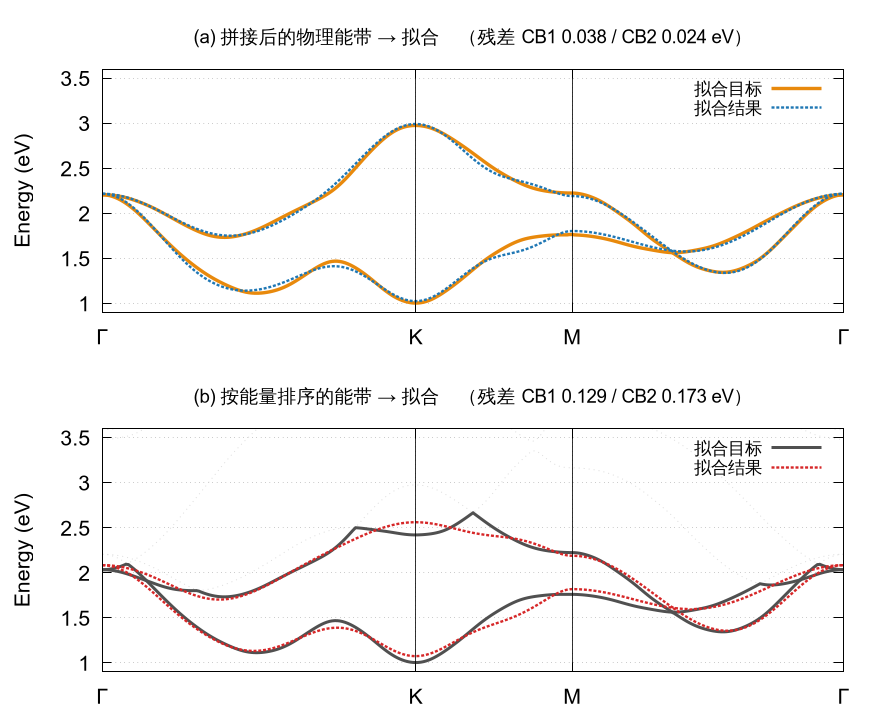
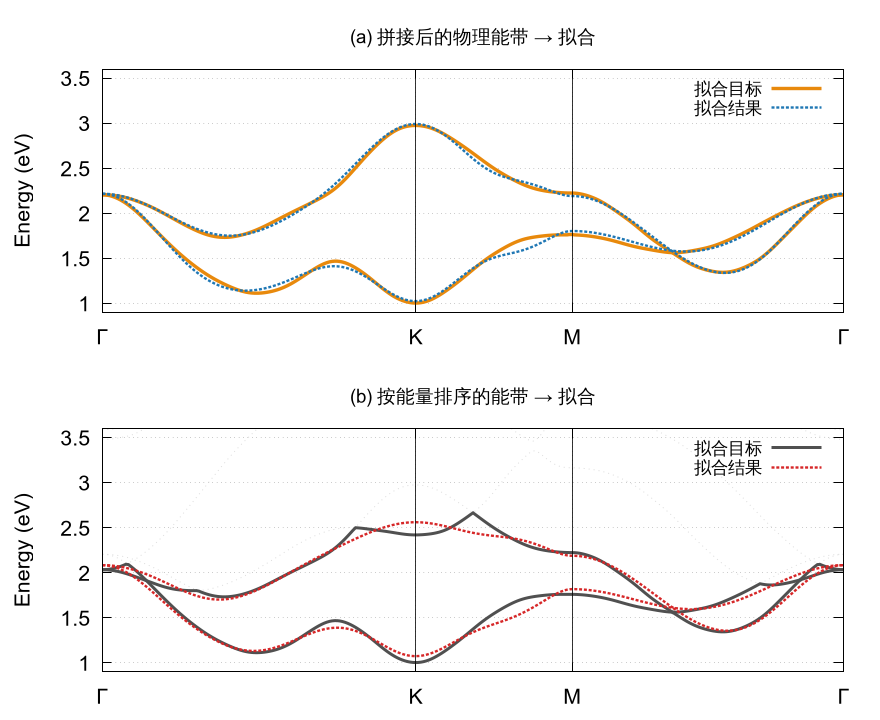
图 1 标题不再写残差，数字只留在图注
两栏标题回到单纯的"(a) 拼接后的物理能带 → 拟合"和"(b) 按能量排序的能带 → 拟合"，
残差（正确 0.038/0.024 eV、错误 0.129/0.173 eV）只在图注里说一次。

Changed region(s): [[0.2148, 0.5194, 0.8284, 0.5806], [0.2148, 0.0306, 0.8284, 0.0611]]

diff --git a/doc/theory.tex b/doc/theory.tex
@@ -266,8 +266,8 @@ $K$ 谷附近模型的第二条导带能量较高。
 \caption{两种口径的对比。每栏里实线是拟合目标，虚线是按该目标拟合出的结果。
 (a) 目标取拼接后的物理能带；(b) 目标取按能量排序的能带
 （浅色点线是文件里其它的排序能带）。
-括号里是拟合结果相对物理能带的残差：正确口径 0.038 与 0.024~eV，
-错误口径 0.129 与 0.173~eV。}
+拟合结果相对物理能带的残差，正确口径是 CB1 0.038、CB2 0.024~eV，
+错误口径是 0.129、0.173~eV。}
 \label{fig:stitch}
 \end{figure}
 
